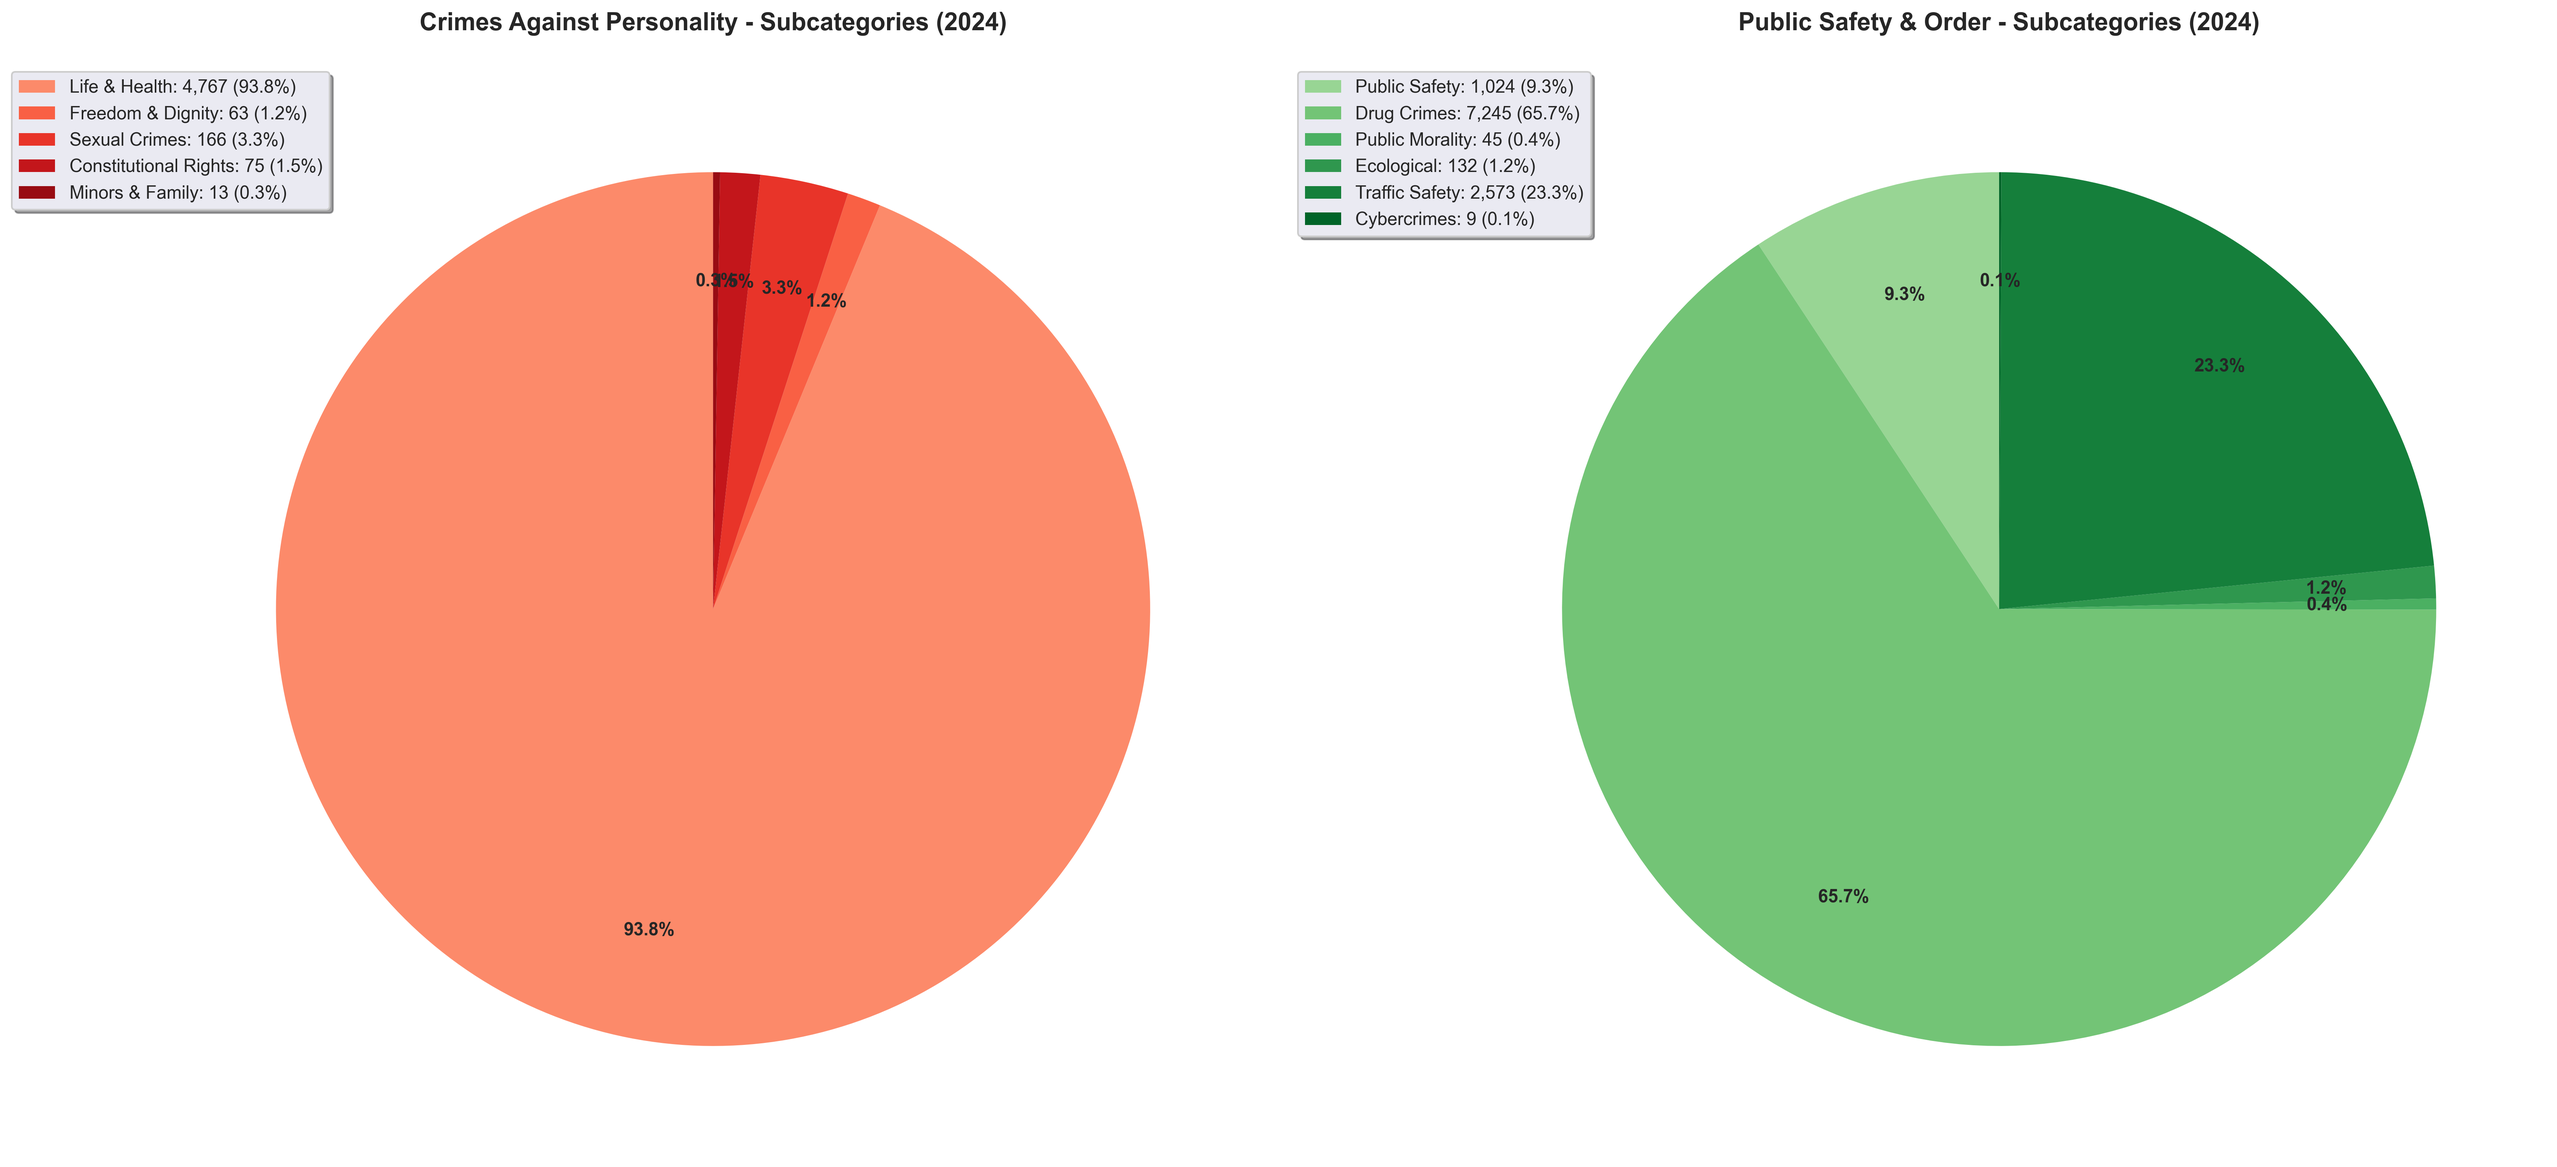
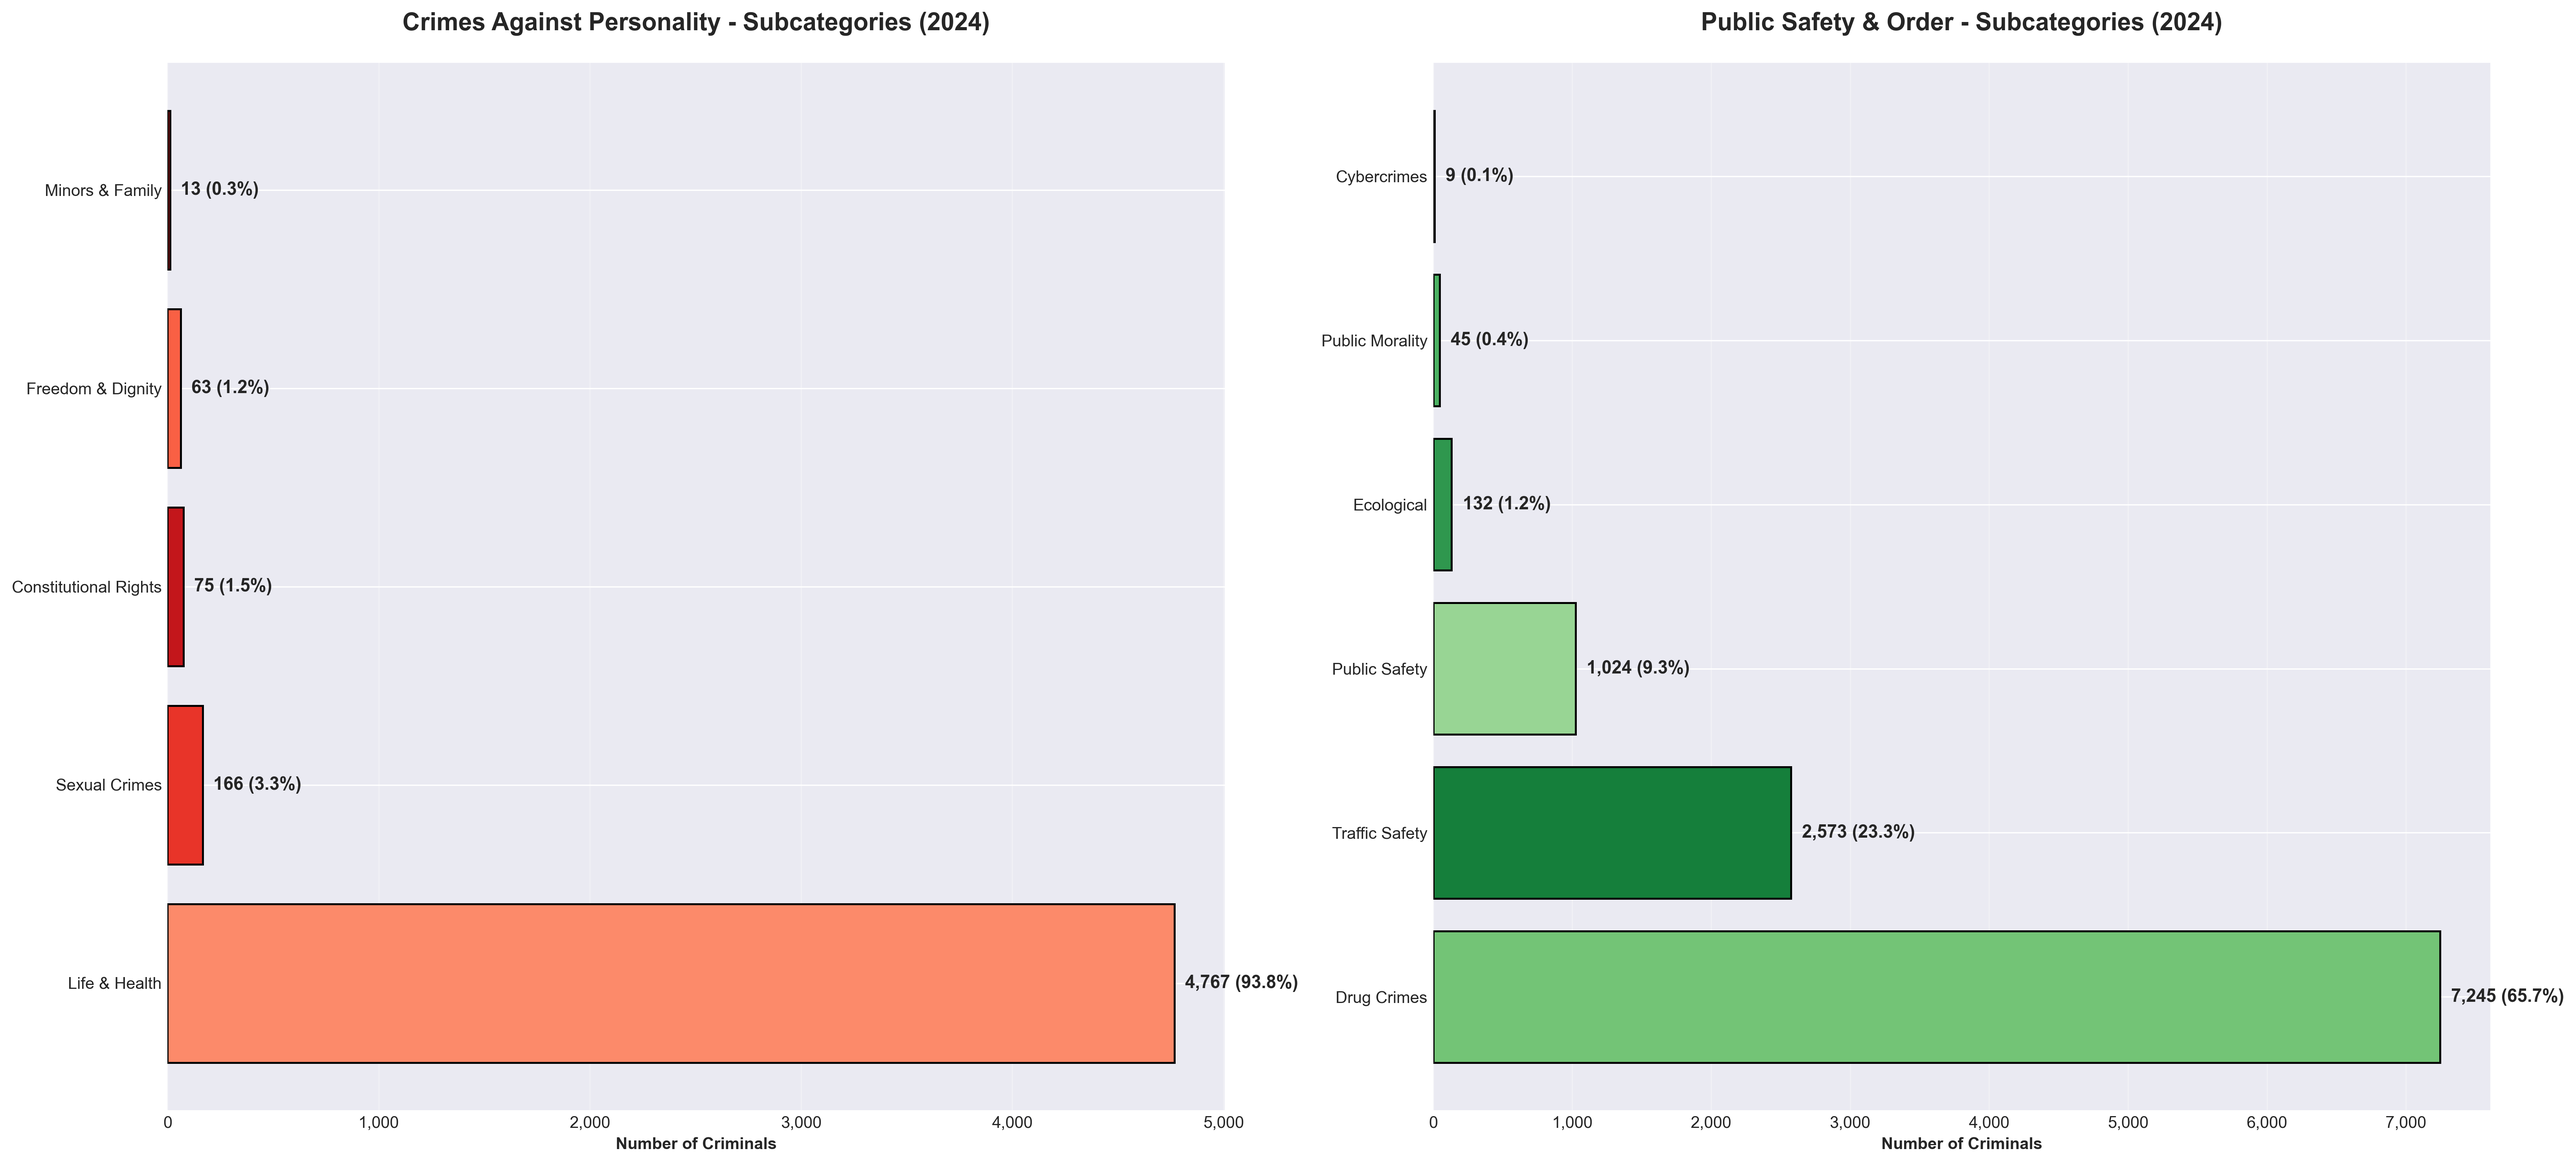
init

diff --git a/README.md b/README.md
@@ -293,13 +293,13 @@ Total Crimes (Row 3) = 33,379
 
 ```
 crime_types_analyse/
-├── data/
-│   ├── 003_1.xls          # Crimes by types (1993-2024)
-│   ├── 003_3.xls          # Criminals by Criminal Code (2005-2024)
-│   ├── 003_4.xls          # Crimes by perpetrator type (1993-2024)
-│   ├── 003_10.xls         # Criminals by crime type (1993-2024)
-│   └── 003_11.xls         # Criminal demographics (1993-2024)
-├── charts/
+├── data/                           # Raw data files
+│   ├── 003_1.xls                  # Crimes by types (1993-2024)
+│   ├── 003_3.xls                  # Criminals by Criminal Code (2005-2024)
+│   ├── 003_4.xls                  # Crimes by perpetrator type (1993-2024)
+│   ├── 003_10.xls                 # Criminals by crime type (1993-2024)
+│   └── 003_11.xls                 # Criminal demographics (1993-2024)
+├── charts/                         # Generated visualization charts
 │   ├── 01_total_crimes_trend.png
 │   ├── 02_crime_types_2024.png
 │   ├── 03_top_crimes_trend.png
@@ -310,8 +310,34 @@ crime_types_analyse/
 │   ├── 08_crimes_vs_criminals.png
 │   ├── 09_year_over_year_change.png
 │   └── 10_drug_crimes_evolution.png
-├── DATASET_ANALYSIS.md    # Detailed technical documentation
-└── README.md              # This presentation document
+├── scripts/                        # Analysis and visualization scripts
+│   └── generate_charts.py         # Chart generation script (executable)
+├── DATASET_ANALYSIS.md            # Detailed technical documentation
+├── README.md                      # This presentation document
+└── .gitignore                     # Git ignore rules
+```
+
+### 📝 How to Regenerate Charts
+
+To regenerate all charts from the data:
+
+```bash
+# Navigate to project directory
+cd crime_types_analyse
+
+# Run the chart generation script
+python3 scripts/generate_charts.py
+```
+
+**Requirements:**
+- Python 3.x
+- pandas
+- matplotlib
+- numpy
+
+**Install dependencies:**
+```bash
+pip install pandas matplotlib numpy openpyxl xlrd
 ```
 
 ---
@@ -378,7 +404,7 @@ The crime statistics for Azerbaijan (1993-2024) reveal a complex landscape with 
 
 ---
 
-**For detailed technical analysis and data methodology, see [DATASET_ANALYSIS.md](DATASET_ANALYSIS.md)**
+**For detailed technical analysis and data methodology, see [DATASET_ANALYSIS.md](data/DATASET_ANALYSIS.md)**
 
 ---
 
